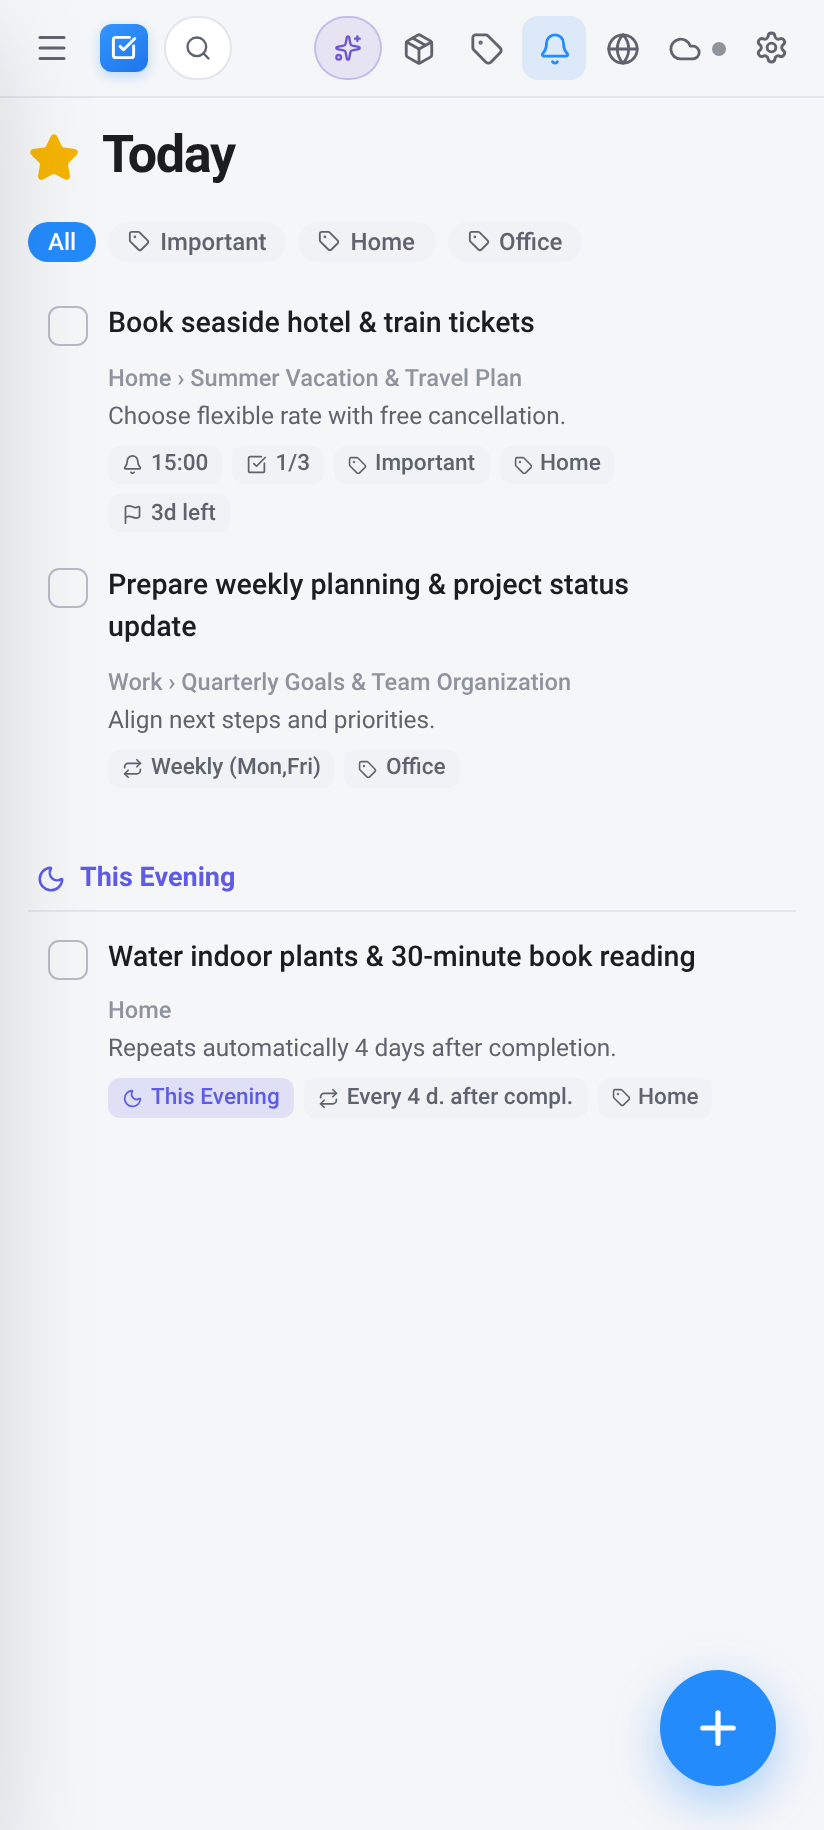
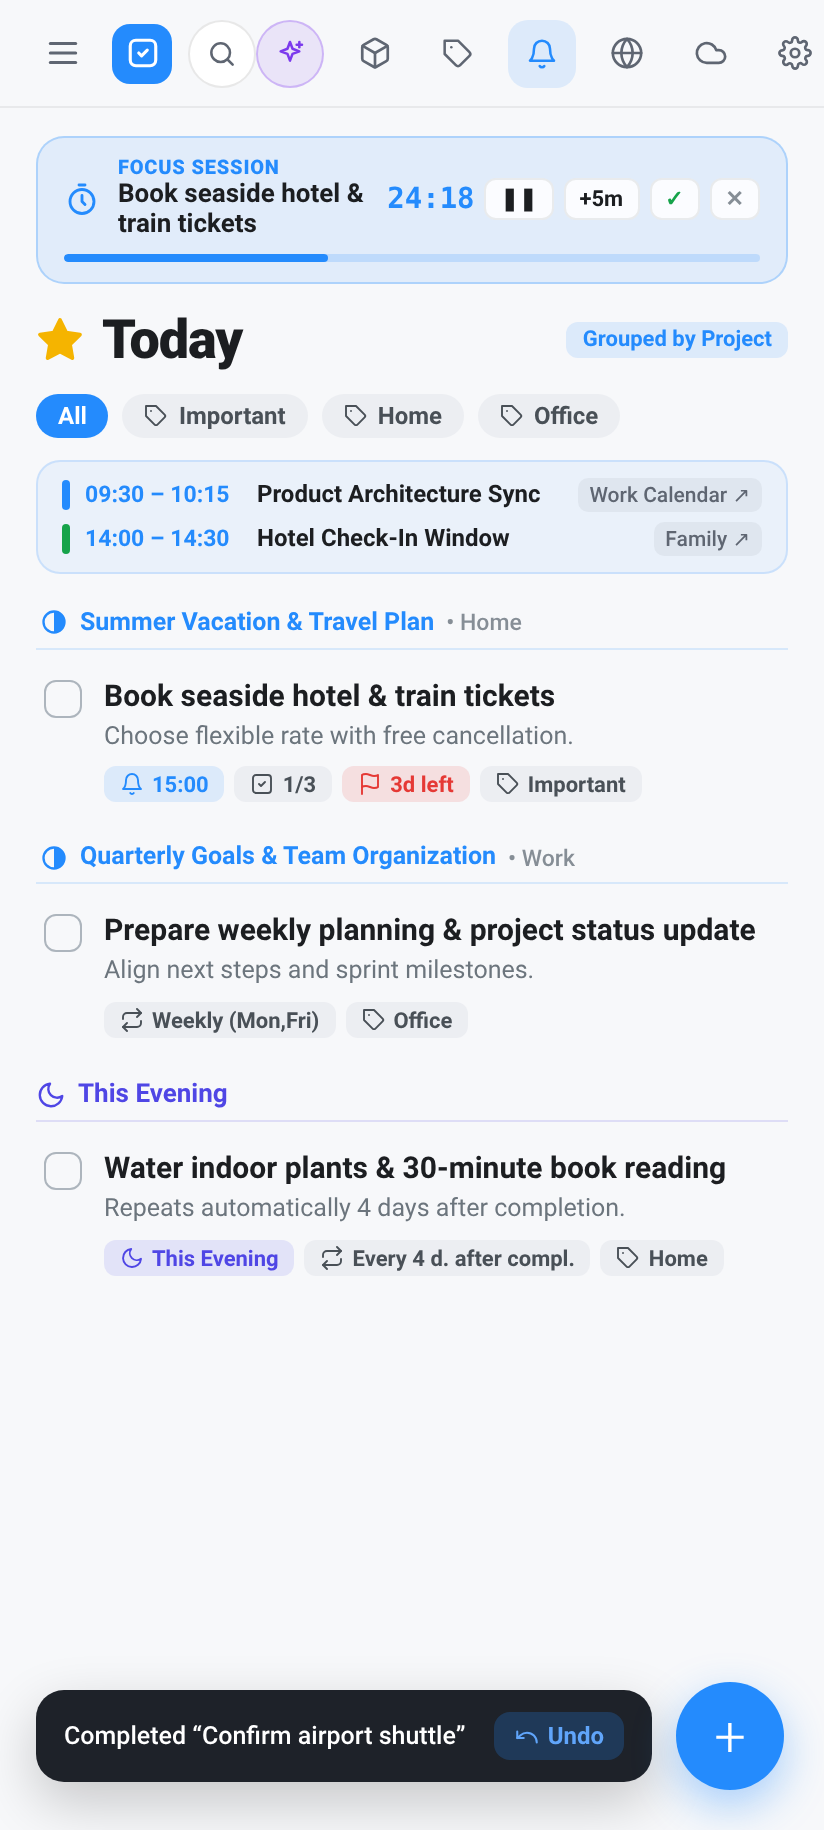
docs(readme): document all v1.7.0 GTD power features and add retina UI screenshots

diff --git a/README.md b/README.md
@@ -6,13 +6,13 @@
 
 **Native Android GTD Productivity App — with Companion Standalone App for ChromeOS**
 
-[![Version](https://img.shields.io/badge/version-1.6.23-248BFD?style=flat-square)](https://github.com/petrosvassiliou/thingsbook-android)
+[![Version](https://img.shields.io/badge/version-1.7.0%20(Build%2041)-248BFD?style=flat-square)](https://github.com/petrosvassiliou/thingsbook-android/releases/tag/v1.7.0)
 [![Android](https://img.shields.io/badge/Android-100%25%20Kotlin%20%2B%20Compose-3DDC84?style=flat-square&logo=android&logoColor=white)](#1-thingsbook-for-android-native-apk)
 [![ChromeOS](https://img.shields.io/badge/ChromeOS-Standalone%20Launcher%20App-4285F4?style=flat-square&logo=googlechrome&logoColor=white)](#2-thingsbook-for-chromeos-standalone-pwa)
 [![Languages](https://img.shields.io/badge/i18n-DE%20%7C%20EN%20%7C%20FR%20%7C%20IT%20%7C%20ES-6E56CF?style=flat-square)](#localization-5-languages)
 [![Encryption](https://img.shields.io/badge/backup-AES--256--GCM-16A34A?style=flat-square)](#offline-first-storage-backups--cloud-sync)
 
-[**📱 Download Android APK (v1.6.23)**](https://github.com/petrosvassiliou/thingsbook-android/raw/main/Thingsbook-v1.6.23-full.apk) · [**🤖 Android Overview & Screenshots**](#1-thingsbook-for-android-native-apk) · [**💻 ChromeOS Version & Screenshots**](#2-thingsbook-for-chromeos-standalone-pwa) · [**🇩🇪 Deutsch**](#-deutsche-dokumentation)
+[**📱 Download Android APK (v1.7.0)**](https://github.com/petrosvassiliou/thingsbook-android/raw/v1.7.0/releases/Thingsbook-v1.7.0-GTD-Full.apk) · [**🤖 Android Overview & Screenshots**](#1-thingsbook-for-android-native-apk) · [**💻 ChromeOS Version & Screenshots**](#2-thingsbook-for-chromeos-standalone-pwa) · [**🇩🇪 Deutsch**](#-deutsche-dokumentation)
 
 </div>
 
@@ -30,26 +30,44 @@
 
 **Thingsbook for Android** (`app/`) is a 100% native GTD (*Getting Things Done*) productivity app built from scratch for **Android smartphones, tablets, and foldables** using **Kotlin**, **Jetpack Compose (Material 3)**, and an **offline-first Room + SQLite FTS5 (`unicode61`) database**.
 
-### 📥 Direct Android Download (`v1.6.23`, Build `40`)
-- **[Download `Thingsbook-v1.6.23-full.apk`](https://github.com/petrosvassiliou/thingsbook-android/raw/main/Thingsbook-v1.6.23-full.apk)**
+### 📥 Direct Android Download (`v1.7.0`, Build `41`)
+- **[Download `Thingsbook-v1.7.0-GTD-Full.apk`](https://github.com/petrosvassiliou/thingsbook-android/raw/v1.7.0/releases/Thingsbook-v1.7.0-GTD-Full.apk)**
+- **[Download `Thingsbook-Full-GTD-Edition.apk`](https://github.com/petrosvassiliou/thingsbook-android/raw/v1.7.0/Thingsbook-Full-GTD-Edition.apk)**
 
 ---
 
-### 📸 Android Screenshots
+### 📸 Android Screenshots (`v1.7.0`)
 
-#### Android Smartphones (`< 700dp` — Single-Handed Layout, 120 Hz Inline Expansion & Dark Mode)
+#### Android Smartphones (`< 700dp` — Focus Timer, Google Calendar, Markdown Notes & Dark Mode)
 
 <div align="center">
 <table>
   <tr>
-    <td align="center"><b>Today &amp; This Evening</b></td>
-    <td align="center"><b>Inline Card &amp; Checklists</b></td>
-    <td align="center"><b>Project &amp; Headings (Dark)</b></td>
+    <td align="center"><b>Today: Focus Timer, Calendar, Project Grouping &amp; Undo</b></td>
+    <td align="center"><b>Inline Card: Live Markdown Notes &amp; Link Chips</b></td>
+    <td align="center"><b>Project &amp; Headings (Dark): Duplicate &amp; Links</b></td>
   </tr>
   <tr>
-    <td><img src="docs/screenshots/android-phone-today-light.png" alt="Android Phone Today View" width="265" /></td>
-    <td><img src="docs/screenshots/android-phone-expanded-light.png" alt="Android Phone Expanded Task Card" width="265" /></td>
-    <td><img src="docs/screenshots/android-phone-project-dark.png" alt="Android Phone Project Dark Mode" width="265" /></td>
+    <td><img src="docs/screenshots/android-phone-today-light.png" alt="Android Phone Today View with Focus Timer, Google Calendar, Project Grouping and Undo" width="265" /></td>
+    <td><img src="docs/screenshots/android-phone-expanded-light.png" alt="Android Phone Expanded Task Card with Markdown Notes and Link Chips" width="265" /></td>
+    <td><img src="docs/screenshots/android-phone-project-dark.png" alt="Android Phone Project Dark Mode with Duplicate Project and Link Chips" width="265" /></td>
+  </tr>
+</table>
+</div>
+
+#### Android GTD Power Pack (`v1.7.0` — Quick Share Sheet, Trash & Undo, Calendar & Security Settings)
+
+<div align="center">
+<table>
+  <tr>
+    <td align="center"><b>&ldquo;Share to Thingsbook&rdquo; Quick Entry Sheet</b></td>
+    <td align="center"><b>Trash / Recently Deleted &amp; 5s Undo Bar</b></td>
+    <td align="center"><b>Settings: Calendar, Grouping &amp; Biometric Lock</b></td>
+  </tr>
+  <tr>
+    <td><img src="docs/screenshots/android-phone-quick-share-light.png" alt="Share to Thingsbook Quick Entry Sheet" width="265" /></td>
+    <td><img src="docs/screenshots/android-phone-trash-undo-light.png" alt="Trash View and 5-Second Undo Snackbar" width="265" /></td>
+    <td><img src="docs/screenshots/android-phone-settings-power-light.png" alt="Settings for Google Calendar, Group Today by Project/Area and Biometric App Lock" width="265" /></td>
   </tr>
 </table>
 </div>
@@ -60,13 +78,46 @@
 
 ---
 
-### ✨ Native Android Architecture & GTD Features
+### ✨ What’s New in `v1.7.0` (Major GTD Power Pack)
+
+1. **📤 "Share to Thingsbook" (`ACTION_SEND`) & Quick Entry Sheet**
+   - Share URLs, articles, emails, or text from Chrome, Gmail, or any Android app directly into Thingsbook.
+   - Opens the **Save to Thingsbook** quick-capture sheet with editable title, Markdown notes, detected link chips, and one-tap destination selection (*Inbox*, *Today*, *This Evening*, *Anytime*, *Someday*, or any *Project* / *Area*).
+2. **🚀 Launcher App Shortcuts & Home Screen Widget Deep-Links**
+   - Long-press the Thingsbook app icon on your Android home screen for instant actions: **New To-Do**, **Today**, **Inbox**, and **Quick Find**.
+   - Interactive home screen widget (`+` quick-add and direct task opening).
+3. **🔔 Actionable Reminder Notifications (`✓ Complete`, `+1h`, `Tomorrow`)**
+   - Task reminder notifications now include three direct action buttons: **✓ Complete**, **+1h (Snooze)**, and **Tomorrow** (defers the task to tomorrow in *Upcoming*) without even opening the app.
+4. **📝 Live Markdown Formatting & Clickable Link / Email / Phone Chips in Notes**
+   - Task and project notes highlight `# Headings`, `**bold**`, `*italic*`, `` `inline code` ``, `- ` bullet lists, and URLs in real time.
+   - Automatically detects web links (`https://...`), email addresses (`mailto:`), and phone numbers (`tel:`) and renders one-tap clickable chips directly below the notes field.
+5. **📅 Optional Google Calendar & Device Calendar Integration**
+   - Disabled by default; enable in **⚙ Settings → Google Calendar & Calendar Events** and pick one or more specific calendars (or *All* / *None*).
+   - Displays read-only calendar events in **Today** and **Upcoming** only on dates that have scheduled tasks, and tapping any calendar item opens it directly in the default Google Calendar app.
+6. **🗂 Group Today by Project / Area (`⚙ Settings`)**
+   - Optional toggle in **⚙ Settings → Workflow, Today Grouping & App Lock** (off by default) to organize daytime tasks in **Today** under clickable *Project* or *Area* headers (*Things 3* style).
+7. **🗑 Trash / Recently Deleted View + 5-Second "Undo" Snackbar (`Ctrl + Z`)**
+   - Completing or deleting a To-Do (or deleting a Project) displays a floating 5-second **Undo** bar (also triggered via `Ctrl + Z`).
+   - Dedicated **Trash** smart view in the sidebar allows restoring soft-deleted tasks and projects, deleting them forever, or emptying the entire Trash.
+8. **📋 Duplicate To-Do & Duplicate Project (Templates — `Ctrl + D`)**
+   - Deep-clone any To-Do (including all checklist items and tags) or any Project (including headings, open tasks, checklists, and tags) via the task toolbar, context menu, project header, or `Ctrl + D`.
+9. **⏱ Built-in 25-Minute Focus / Pomodoro Timer per Task**
+   - Start a 25-minute countdown on any To-Do from the task toolbar or menu.
+   - Displays an interactive top **Focus Session** banner (**Pause/Resume**, **+5m**, **Complete `✓`**, **Stop `✕`**) synchronized with a silent ongoing Android notification.
+10. **🔒 Optional Biometric / PIN App Lock (`⚙ Settings`)**
+    - Optional toggle in **⚙ Settings → Workflow, Today Grouping & App Lock** (off by default) using Android's `BiometricPrompt` / `KeyguardManager` to require fingerprint, face unlock, or device PIN when opening or resuming Thingsbook.
+11. **🌙 Automatic `00:00` Midnight Day Rollover & Keyboard-Safe Task Scrolling**
+    - Automatically rolls over *Today* and *Upcoming* at `00:00` midnight (and upon timezone/date changes) while the app is open, and automatically scrolls expanded bottom tasks above the soft keyboard (`imePadding`).
+
+---
+
+### 🏗 Core Native Android Architecture & GTD Features
 
 - **Adaptive Layout for Phones, Tablets & Foldables (`700dp` Breakpoint)**
   - **Smartphones (`< 700dp`):** Thumb-friendly navigation drawer, swipe-down *Quick Find*, fluid 120 Hz spring card expansion (`spring(dampingRatio = 0.8f, stiffness = 400f)`), and draggable **Magic Plus (`+`)** Floating Action Button for direct drag-and-drop creation into lists.
-  - **Tablets & Foldables (`>= 700dp`):** 2-column master-detail workspace with persistent sidebar, live Smart View badges, live pie-chart project progress rings, centered reading canvas (`max 840dp`), and hardware keyboard support.
+  - **Tablets & Foldables (`>= 700dp`):** 2-column master-detail workspace with persistent sidebar, live Smart View badges, live pie-chart project progress rings, centered reading canvas (`max 840dp`), and full hardware keyboard shortcuts.
 - **Complete GTD Hierarchy**
-  - **Smart Views:** *Inbox*, *Today* (with a separate **🌙 This Evening** section), *Upcoming* (grouped day-by-day timeline), *Anytime*, *Someday*, and *Logbook*.
+  - **Smart Views:** *Inbox*, *Today* (with a separate **🌙 This Evening** section), *Upcoming* (grouped day-by-day timeline), *Anytime*, *Someday*, *Logbook*, and *Trash*.
   - **Areas, Projects & Headings:** Group responsibilities into **Areas**, track multi-step **Projects** with live pie-chart **Progress Rings** and target dates (`🏁`), and structure projects with collapsible **Headings**.
   - **Rich To-Dos:** Reorderable **Checklists**, **Natural Language Date Input** (*"tomorrow"*, *"next fri"*, *"in 3 days"*), flexible **Recurrence Rules** (*fixed schedule* or *X days/weeks/months after completion*), exact alarm notifications & daily morning digest, hierarchical **Tags**, LexoRank `sortOrder`, and long-press on the checkbox to mark **Canceled (`✕`)**.
 - <a id="offline-first-storage-backups--cloud-sync"></a>**Offline-First Room/SQLite FTS5 + Encrypted `.tbbackup` + Cloud Sync**
@@ -90,7 +141,7 @@
 
 # 2. Thingsbook for ChromeOS (Standalone PWA)
 
-Alongside the native Android APK, this repository includes a completely separate **ChromeOS Standalone PWA** (`chromeos-pwa/`) at **100% feature, version, backup, and cloud-sync parity (`v1.6.23`, Build `40`)** — engineered specifically for Chromebooks without requiring the Linux container (Crostini) or Android VM (ARCVM).
+Alongside the native Android APK, this repository includes a completely separate **ChromeOS Standalone PWA** (`chromeos-pwa/`) engineered specifically for Chromebooks without requiring the Linux container (Crostini) or Android VM (ARCVM).
 
 ### 🚀 Launch & Install on ChromeOS
 - **Live App URL:** **[https://thingsbook-prod.web.app](https://thingsbook-prod.web.app)** *(hosted on Firebase Hosting)*
@@ -111,12 +162,18 @@ Alongside the native Android APK, this repository includes a completely separate
 
 ---
 
-### ⌨ Chromebook & Hardware Keyboard Shortcuts (Android Tablet + ChromeOS)
+### ⌨ Hardware Keyboard Shortcuts (Android Foldables, Tablets & ChromeOS)
 
 | Shortcut | Action |
 | :--- | :--- |
-| `Ctrl + N` / `Cmd + N` | **New To-Do** at the top of the current list (works globally, even while editing) |
+| `Ctrl + N` / `Cmd + N` | **New To-Do** in the active view (works globally, even while editing) |
 | `Ctrl + Shift + N` / `Cmd + Shift + N` | **New Project** modal (pre-selects the active Area or current Project's Area) |
+| `Ctrl + D` / `Cmd + D` | **Duplicate** the expanded To-Do (or current Project) with all checklists & tags |
+| `Ctrl + Z` / `Cmd + Z` | **Undo** the last task completion or deletion |
+| `Ctrl + S` / `Cmd + S` | Open **When / Schedule** picker for the expanded To-Do |
+| `Ctrl + Shift + D` / `Cmd + Shift + D` | Open **Deadline** picker for the expanded To-Do |
+| `Ctrl + Shift + M` / `Cmd + Shift + M` | Open **Move to Project / Area** picker for the expanded To-Do |
+| `Ctrl + Backspace` / `Ctrl + Delete` | Move the expanded To-Do to **Trash** |
 | `Ctrl + F` or `Ctrl + K` | Toggle **Quick Find** instant search |
 | `Ctrl + G` | Open **Thingsbook Intelligence (Gemini AI Hub)** |
 | `Ctrl + 1` … `Ctrl + 6` | Jump to *Inbox*, *Today*, *Upcoming*, *Anytime*, *Someday*, or *Logbook* |
@@ -145,12 +202,25 @@ cd ..
 
 ## 🇩🇪 Deutsche Dokumentation
 
-### 1. Thingsbook für Android (Native Android-App — `v1.6.23`)
+### 1. Thingsbook für Android (Native Android-App — `v1.7.0`, Build `41`)
 Eine eigenständige, native Android-Produktivitäts-App für **Android-Smartphones, Tablets & Foldables**, entwickelt mit **100 % Kotlin**, **Jetpack Compose**, **Offline-First Room Database (SQLite FTS5 `unicode61`)**, **AES-256-GCM `.tbbackup` Komplett-Backup**, optionalem **Firebase Firestore Delta-Sync**, **4 Gemini-KI-Funktionen** und **5 Sprachen (`DE`, `EN`, `FR`, `IT`, `ES`)**.
-- **📱 Direkt-Download Android-APK:** **[Thingsbook-v1.6.23-full.apk herunterladen](https://github.com/petrosvassiliou/thingsbook-android/raw/main/Thingsbook-v1.6.23-full.apk)**
+- **📱 Direkt-Download Android-APK (`v1.7.0`):** **[Thingsbook-v1.7.0-GTD-Full.apk herunterladen](https://github.com/petrosvassiliou/thingsbook-android/raw/v1.7.0/releases/Thingsbook-v1.7.0-GTD-Full.apk)**
 
-### 2. Thingsbook für ChromeOS (Eigenständige Standalone-PWA — `v1.6.23`)
-Zusätzlich enthält `chromeos-pwa/` ein komplett separates **ChromeOS-Paket** auf exakt demselben Code- und Funktionsstand (`v1.6.23`, Build `40`) — gehostet auf **Firebase Hosting** und **ohne Linux-Entwicklungsumgebung (Crostini)** direkt im **ChromeOS-Startmenü (Launcher) & Shelf** installierbar:
+#### ✨ Alle neuen Funktionen in `v1.7.0`:
+- **„An Thingsbook teilen“ (`ACTION_SEND`) & Schnellerfassungs-Dialog:** Links, Artikel, E-Mails oder Texte aus jeder Android-App direkt in Thingsbook speichern (inkl. Auswahl von *Eingang*, *Heute*, *Heute Abend*, *Jederzeit*, *Irgendwann* oder *Projekt*/*Bereich*).
+- **App-Icon-Kurzbefehle (Launcher Shortcuts):** Langer Druck auf das App-Icon für **Neue Aufgabe**, **Heute**, **Eingang** und **Schnellsuche**.
+- **Direkte Benachrichtigungs-Aktionen:** Erinnerungs-Benachrichtigungen bieten jetzt 3 Direkt-Buttons: **✓ Erledigen**, **+1 Std. (Snooze)** und **Morgen**.
+- **Live-Markdown & Klickbare Links in Notizen:** Hebt `# Überschriften`, `**Fett**`, `*Kursiv*`, `` `Code` ``, `- ` Listen und URLs live hervor und zeigt anklickbare Link-, E-Mail- und Telefon-Chips direkt unter dem Notizfeld.
+- **Optionale Google-Kalender-Integration:** In den Einstellungen zuschaltbar (standardmäßig aus); zeigt Termine ausgewählter Kalender in *Heute* und *Geplant* an Tagen mit Aufgaben und öffnet Termine per Tipp direkt in der Google Kalender-App.
+- **„Heute nach Projekt oder Bereich gruppieren“:** Optionale Things-3-Gruppierung in den Einstellungen.
+- **Papierkorb (`Trash`) & 5-Sekunden-„Rückgängig“-Leiste (`Strg + Z`):** Gelöschte Aufgaben und Projekte wiederherstellen oder endgültig leeren.
+- **Aufgaben & Projekte duplizieren (`Strg + D`):** Komplettes Klonen inkl. Checklisten, Überschriften und Tags als Vorlage.
+- **Integrierter 25-Minuten-Fokus-/Pomodoro-Timer:** Direkt an jeder Aufgabe startbar mit Fortschritts-Banner (*Pause*, *+5m*, *Erledigen*, *Stopp*) und stiller Android-Benachrichtigung.
+- **Optionale Biometrie-/PIN-App-Sperre:** Schutz per Fingerabdruck, Gesichtserkennung oder Geräte-PIN beim Öffnen der App.
+- **Erweiterte Hardware-Tastaturkürzel:** `Strg + N` (Neue Aufgabe), `Strg + Umschalt + N` (Neues Projekt), `Strg + D` (Duplizieren), `Strg + Z` (Rückgängig), `Strg + S` (Wann/Planen), `Strg + Umschalt + D` (Frist), `Strg + Umschalt + M` (Verschieben), `Strg + Rücktaste/Entf` (Löschen).
+
+### 2. Thingsbook für ChromeOS (Eigenständige Standalone-PWA)
+Zusätzlich enthält `chromeos-pwa/` ein komplett separates **ChromeOS-Paket** — gehostet auf **Firebase Hosting** und **ohne Linux-Entwicklungsumgebung (Crostini)** direkt im **ChromeOS-Startmenü (Launcher) & Shelf** installierbar:
 - **💻 Live-App für Chromebooks:** **[https://thingsbook-prod.web.app](https://thingsbook-prod.web.app)** *(in Chrome öffnen → „Zum ChromeOS-Launcher hinzufügen“ klicken → startet im eigenen Fenster, 100 % offline-fähig via IndexedDB + Service Worker und synchronisiert nahtlos mit der Android-App).*
 
 ---
@@ -162,6 +232,7 @@ thingsbook-android/
 ├── app/                     # 1. Native Android APK (Kotlin, Jetpack Compose, Room + SQLite FTS5)
 ├── chromeos-pwa/            # 2. Standalone ChromeOS PWA (TypeScript, React, IndexedDB + Workbox)
 ├── docs/screenshots/        # Retina UI screenshots (Android Phone, Android Tablet & ChromeOS)
+├── releases/                # Signed release APKs (Thingsbook-v1.7.0-GTD-Full.apk)
 ├── firebase.json            # Firebase Hosting & Firestore configuration
 ├── firestore.rules          # Per-user Firestore security rules
 └── deploy-chromeos-pwa.sh   # One-command build & Firebase Hosting deployment script
